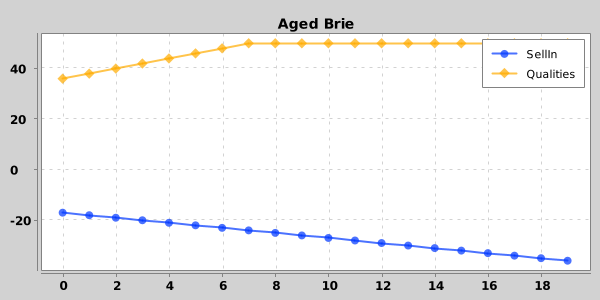
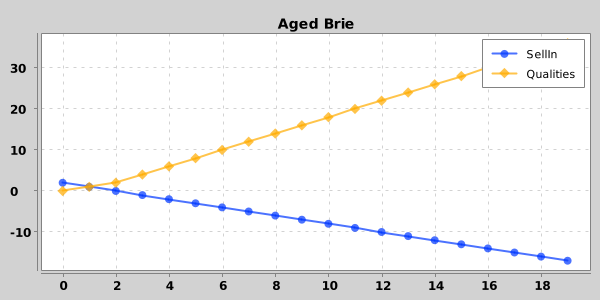
Update GildedRose test to create a new Inn for each item
(cherry picked from commit 9086e2c36711f095f6f7f98d069f508822e02165)

diff --git a/docs/demo_gildedrose/index.html b/docs/demo_gildedrose/index.html
@@ -918,49 +918,49 @@ ol > li p, ul > li p, ul dd, ol dd, .olist .olist, .ulist .olist, .olist .ulist 
 </tr>
 <tr>
 <td class="tableblock halign-left valign-top"><p class="tableblock">sellIn</p></td>
+<td class="tableblock halign-left valign-top"><p class="tableblock">2</p></td>
+<td class="tableblock halign-left valign-top"><p class="tableblock">1</p></td>
+<td class="tableblock halign-left valign-top"><p class="tableblock">0</p></td>
+<td class="tableblock halign-left valign-top"><p class="tableblock">-1</p></td>
+<td class="tableblock halign-left valign-top"><p class="tableblock">-2</p></td>
+<td class="tableblock halign-left valign-top"><p class="tableblock">-3</p></td>
+<td class="tableblock halign-left valign-top"><p class="tableblock">-4</p></td>
+<td class="tableblock halign-left valign-top"><p class="tableblock">-5</p></td>
+<td class="tableblock halign-left valign-top"><p class="tableblock">-6</p></td>
+<td class="tableblock halign-left valign-top"><p class="tableblock">-7</p></td>
+<td class="tableblock halign-left valign-top"><p class="tableblock">-8</p></td>
+<td class="tableblock halign-left valign-top"><p class="tableblock">-9</p></td>
+<td class="tableblock halign-left valign-top"><p class="tableblock">-10</p></td>
+<td class="tableblock halign-left valign-top"><p class="tableblock">-11</p></td>
+<td class="tableblock halign-left valign-top"><p class="tableblock">-12</p></td>
+<td class="tableblock halign-left valign-top"><p class="tableblock">-13</p></td>
+<td class="tableblock halign-left valign-top"><p class="tableblock">-14</p></td>
+<td class="tableblock halign-left valign-top"><p class="tableblock">-15</p></td>
+<td class="tableblock halign-left valign-top"><p class="tableblock">-16</p></td>
 <td class="tableblock halign-left valign-top"><p class="tableblock">-17</p></td>
-<td class="tableblock halign-left valign-top"><p class="tableblock">-18</p></td>
-<td class="tableblock halign-left valign-top"><p class="tableblock">-19</p></td>
-<td class="tableblock halign-left valign-top"><p class="tableblock">-20</p></td>
-<td class="tableblock halign-left valign-top"><p class="tableblock">-21</p></td>
-<td class="tableblock halign-left valign-top"><p class="tableblock">-22</p></td>
-<td class="tableblock halign-left valign-top"><p class="tableblock">-23</p></td>
-<td class="tableblock halign-left valign-top"><p class="tableblock">-24</p></td>
-<td class="tableblock halign-left valign-top"><p class="tableblock">-25</p></td>
-<td class="tableblock halign-left valign-top"><p class="tableblock">-26</p></td>
-<td class="tableblock halign-left valign-top"><p class="tableblock">-27</p></td>
-<td class="tableblock halign-left valign-top"><p class="tableblock">-28</p></td>
-<td class="tableblock halign-left valign-top"><p class="tableblock">-29</p></td>
-<td class="tableblock halign-left valign-top"><p class="tableblock">-30</p></td>
-<td class="tableblock halign-left valign-top"><p class="tableblock">-31</p></td>
-<td class="tableblock halign-left valign-top"><p class="tableblock">-32</p></td>
-<td class="tableblock halign-left valign-top"><p class="tableblock">-33</p></td>
-<td class="tableblock halign-left valign-top"><p class="tableblock">-34</p></td>
-<td class="tableblock halign-left valign-top"><p class="tableblock">-35</p></td>
-<td class="tableblock halign-left valign-top"><p class="tableblock">-36</p></td>
 </tr>
 <tr>
 <td class="tableblock halign-left valign-top"><p class="tableblock">qualities</p></td>
+<td class="tableblock halign-left valign-top"><p class="tableblock">0</p></td>
+<td class="tableblock halign-left valign-top"><p class="tableblock">1</p></td>
+<td class="tableblock halign-left valign-top"><p class="tableblock">2</p></td>
+<td class="tableblock halign-left valign-top"><p class="tableblock">4</p></td>
+<td class="tableblock halign-left valign-top"><p class="tableblock">6</p></td>
+<td class="tableblock halign-left valign-top"><p class="tableblock">8</p></td>
+<td class="tableblock halign-left valign-top"><p class="tableblock">10</p></td>
+<td class="tableblock halign-left valign-top"><p class="tableblock">12</p></td>
+<td class="tableblock halign-left valign-top"><p class="tableblock">14</p></td>
+<td class="tableblock halign-left valign-top"><p class="tableblock">16</p></td>
+<td class="tableblock halign-left valign-top"><p class="tableblock">18</p></td>
+<td class="tableblock halign-left valign-top"><p class="tableblock">20</p></td>
+<td class="tableblock halign-left valign-top"><p class="tableblock">22</p></td>
+<td class="tableblock halign-left valign-top"><p class="tableblock">24</p></td>
+<td class="tableblock halign-left valign-top"><p class="tableblock">26</p></td>
+<td class="tableblock halign-left valign-top"><p class="tableblock">28</p></td>
+<td class="tableblock halign-left valign-top"><p class="tableblock">30</p></td>
+<td class="tableblock halign-left valign-top"><p class="tableblock">32</p></td>
+<td class="tableblock halign-left valign-top"><p class="tableblock">34</p></td>
 <td class="tableblock halign-left valign-top"><p class="tableblock">36</p></td>
-<td class="tableblock halign-left valign-top"><p class="tableblock">38</p></td>
-<td class="tableblock halign-left valign-top"><p class="tableblock">40</p></td>
-<td class="tableblock halign-left valign-top"><p class="tableblock">42</p></td>
-<td class="tableblock halign-left valign-top"><p class="tableblock">44</p></td>
-<td class="tableblock halign-left valign-top"><p class="tableblock">46</p></td>
-<td class="tableblock halign-left valign-top"><p class="tableblock">48</p></td>
-<td class="tableblock halign-left valign-top"><p class="tableblock">50</p></td>
-<td class="tableblock halign-left valign-top"><p class="tableblock">50</p></td>
-<td class="tableblock halign-left valign-top"><p class="tableblock">50</p></td>
-<td class="tableblock halign-left valign-top"><p class="tableblock">50</p></td>
-<td class="tableblock halign-left valign-top"><p class="tableblock">50</p></td>
-<td class="tableblock halign-left valign-top"><p class="tableblock">50</p></td>
-<td class="tableblock halign-left valign-top"><p class="tableblock">50</p></td>
-<td class="tableblock halign-left valign-top"><p class="tableblock">50</p></td>
-<td class="tableblock halign-left valign-top"><p class="tableblock">50</p></td>
-<td class="tableblock halign-left valign-top"><p class="tableblock">50</p></td>
-<td class="tableblock halign-left valign-top"><p class="tableblock">50</p></td>
-<td class="tableblock halign-left valign-top"><p class="tableblock">50</p></td>
-<td class="tableblock halign-left valign-top"><p class="tableblock">50</p></td>
 </tr>
 </tbody>
 </table>
@@ -1022,35 +1022,35 @@ ol > li p, ul > li p, ul dd, ol dd, .olist .olist, .ulist .olist, .olist .ulist 
 </tr>
 <tr>
 <td class="tableblock halign-left valign-top"><p class="tableblock">sellIn</p></td>
-<td class="tableblock halign-left valign-top"><p class="tableblock">-33</p></td>
-<td class="tableblock halign-left valign-top"><p class="tableblock">-34</p></td>
-<td class="tableblock halign-left valign-top"><p class="tableblock">-35</p></td>
-<td class="tableblock halign-left valign-top"><p class="tableblock">-36</p></td>
-<td class="tableblock halign-left valign-top"><p class="tableblock">-37</p></td>
-<td class="tableblock halign-left valign-top"><p class="tableblock">-38</p></td>
-<td class="tableblock halign-left valign-top"><p class="tableblock">-39</p></td>
-<td class="tableblock halign-left valign-top"><p class="tableblock">-40</p></td>
-<td class="tableblock halign-left valign-top"><p class="tableblock">-41</p></td>
-<td class="tableblock halign-left valign-top"><p class="tableblock">-42</p></td>
-<td class="tableblock halign-left valign-top"><p class="tableblock">-43</p></td>
-<td class="tableblock halign-left valign-top"><p class="tableblock">-44</p></td>
-<td class="tableblock halign-left valign-top"><p class="tableblock">-45</p></td>
-<td class="tableblock halign-left valign-top"><p class="tableblock">-46</p></td>
-<td class="tableblock halign-left valign-top"><p class="tableblock">-47</p></td>
-<td class="tableblock halign-left valign-top"><p class="tableblock">-48</p></td>
-<td class="tableblock halign-left valign-top"><p class="tableblock">-49</p></td>
-<td class="tableblock halign-left valign-top"><p class="tableblock">-50</p></td>
-<td class="tableblock halign-left valign-top"><p class="tableblock">-51</p></td>
-<td class="tableblock halign-left valign-top"><p class="tableblock">-52</p></td>
+<td class="tableblock halign-left valign-top"><p class="tableblock">5</p></td>
+<td class="tableblock halign-left valign-top"><p class="tableblock">4</p></td>
+<td class="tableblock halign-left valign-top"><p class="tableblock">3</p></td>
+<td class="tableblock halign-left valign-top"><p class="tableblock">2</p></td>
+<td class="tableblock halign-left valign-top"><p class="tableblock">1</p></td>
+<td class="tableblock halign-left valign-top"><p class="tableblock">0</p></td>
+<td class="tableblock halign-left valign-top"><p class="tableblock">-1</p></td>
+<td class="tableblock halign-left valign-top"><p class="tableblock">-2</p></td>
+<td class="tableblock halign-left valign-top"><p class="tableblock">-3</p></td>
+<td class="tableblock halign-left valign-top"><p class="tableblock">-4</p></td>
+<td class="tableblock halign-left valign-top"><p class="tableblock">-5</p></td>
+<td class="tableblock halign-left valign-top"><p class="tableblock">-6</p></td>
+<td class="tableblock halign-left valign-top"><p class="tableblock">-7</p></td>
+<td class="tableblock halign-left valign-top"><p class="tableblock">-8</p></td>
+<td class="tableblock halign-left valign-top"><p class="tableblock">-9</p></td>
+<td class="tableblock halign-left valign-top"><p class="tableblock">-10</p></td>
+<td class="tableblock halign-left valign-top"><p class="tableblock">-11</p></td>
+<td class="tableblock halign-left valign-top"><p class="tableblock">-12</p></td>
+<td class="tableblock halign-left valign-top"><p class="tableblock">-13</p></td>
+<td class="tableblock halign-left valign-top"><p class="tableblock">-14</p></td>
 </tr>
 <tr>
 <td class="tableblock halign-left valign-top"><p class="tableblock">qualities</p></td>
-<td class="tableblock halign-left valign-top"><p class="tableblock">0</p></td>
-<td class="tableblock halign-left valign-top"><p class="tableblock">0</p></td>
-<td class="tableblock halign-left valign-top"><p class="tableblock">0</p></td>
-<td class="tableblock halign-left valign-top"><p class="tableblock">0</p></td>
-<td class="tableblock halign-left valign-top"><p class="tableblock">0</p></td>
-<td class="tableblock halign-left valign-top"><p class="tableblock">0</p></td>
+<td class="tableblock halign-left valign-top"><p class="tableblock">7</p></td>
+<td class="tableblock halign-left valign-top"><p class="tableblock">6</p></td>
+<td class="tableblock halign-left valign-top"><p class="tableblock">5</p></td>
+<td class="tableblock halign-left valign-top"><p class="tableblock">4</p></td>
+<td class="tableblock halign-left valign-top"><p class="tableblock">3</p></td>
+<td class="tableblock halign-left valign-top"><p class="tableblock">2</p></td>
 <td class="tableblock halign-left valign-top"><p class="tableblock">0</p></td>
 <td class="tableblock halign-left valign-top"><p class="tableblock">0</p></td>
 <td class="tableblock halign-left valign-top"><p class="tableblock">0</p></td>
@@ -1230,45 +1230,45 @@ ol > li p, ul > li p, ul dd, ol dd, .olist .olist, .ulist .olist, .olist .ulist 
 </tr>
 <tr>
 <td class="tableblock halign-left valign-top"><p class="tableblock">sellIn</p></td>
-<td class="tableblock halign-left valign-top"><p class="tableblock">-61</p></td>
-<td class="tableblock halign-left valign-top"><p class="tableblock">-62</p></td>
-<td class="tableblock halign-left valign-top"><p class="tableblock">-63</p></td>
-<td class="tableblock halign-left valign-top"><p class="tableblock">-64</p></td>
-<td class="tableblock halign-left valign-top"><p class="tableblock">-65</p></td>
-<td class="tableblock halign-left valign-top"><p class="tableblock">-66</p></td>
-<td class="tableblock halign-left valign-top"><p class="tableblock">-67</p></td>
-<td class="tableblock halign-left valign-top"><p class="tableblock">-68</p></td>
-<td class="tableblock halign-left valign-top"><p class="tableblock">-69</p></td>
-<td class="tableblock halign-left valign-top"><p class="tableblock">-70</p></td>
-<td class="tableblock halign-left valign-top"><p class="tableblock">-71</p></td>
-<td class="tableblock halign-left valign-top"><p class="tableblock">-72</p></td>
-<td class="tableblock halign-left valign-top"><p class="tableblock">-73</p></td>
-<td class="tableblock halign-left valign-top"><p class="tableblock">-74</p></td>
-<td class="tableblock halign-left valign-top"><p class="tableblock">-75</p></td>
-<td class="tableblock halign-left valign-top"><p class="tableblock">-76</p></td>
-<td class="tableblock halign-left valign-top"><p class="tableblock">-77</p></td>
-<td class="tableblock halign-left valign-top"><p class="tableblock">-78</p></td>
-<td class="tableblock halign-left valign-top"><p class="tableblock">-79</p></td>
-<td class="tableblock halign-left valign-top"><p class="tableblock">-80</p></td>
+<td class="tableblock halign-left valign-top"><p class="tableblock">15</p></td>
+<td class="tableblock halign-left valign-top"><p class="tableblock">14</p></td>
+<td class="tableblock halign-left valign-top"><p class="tableblock">13</p></td>
+<td class="tableblock halign-left valign-top"><p class="tableblock">12</p></td>
+<td class="tableblock halign-left valign-top"><p class="tableblock">11</p></td>
+<td class="tableblock halign-left valign-top"><p class="tableblock">10</p></td>
+<td class="tableblock halign-left valign-top"><p class="tableblock">9</p></td>
+<td class="tableblock halign-left valign-top"><p class="tableblock">8</p></td>
+<td class="tableblock halign-left valign-top"><p class="tableblock">7</p></td>
+<td class="tableblock halign-left valign-top"><p class="tableblock">6</p></td>
+<td class="tableblock halign-left valign-top"><p class="tableblock">5</p></td>
+<td class="tableblock halign-left valign-top"><p class="tableblock">4</p></td>
+<td class="tableblock halign-left valign-top"><p class="tableblock">3</p></td>
+<td class="tableblock halign-left valign-top"><p class="tableblock">2</p></td>
+<td class="tableblock halign-left valign-top"><p class="tableblock">1</p></td>
+<td class="tableblock halign-left valign-top"><p class="tableblock">0</p></td>
+<td class="tableblock halign-left valign-top"><p class="tableblock">-1</p></td>
+<td class="tableblock halign-left valign-top"><p class="tableblock">-2</p></td>
+<td class="tableblock halign-left valign-top"><p class="tableblock">-3</p></td>
+<td class="tableblock halign-left valign-top"><p class="tableblock">-4</p></td>
 </tr>
 <tr>
 <td class="tableblock halign-left valign-top"><p class="tableblock">qualities</p></td>
-<td class="tableblock halign-left valign-top"><p class="tableblock">0</p></td>
-<td class="tableblock halign-left valign-top"><p class="tableblock">0</p></td>
-<td class="tableblock halign-left valign-top"><p class="tableblock">0</p></td>
-<td class="tableblock halign-left valign-top"><p class="tableblock">0</p></td>
-<td class="tableblock halign-left valign-top"><p class="tableblock">0</p></td>
-<td class="tableblock halign-left valign-top"><p class="tableblock">0</p></td>
-<td class="tableblock halign-left valign-top"><p class="tableblock">0</p></td>
-<td class="tableblock halign-left valign-top"><p class="tableblock">0</p></td>
-<td class="tableblock halign-left valign-top"><p class="tableblock">0</p></td>
-<td class="tableblock halign-left valign-top"><p class="tableblock">0</p></td>
-<td class="tableblock halign-left valign-top"><p class="tableblock">0</p></td>
-<td class="tableblock halign-left valign-top"><p class="tableblock">0</p></td>
-<td class="tableblock halign-left valign-top"><p class="tableblock">0</p></td>
-<td class="tableblock halign-left valign-top"><p class="tableblock">0</p></td>
-<td class="tableblock halign-left valign-top"><p class="tableblock">0</p></td>
-<td class="tableblock halign-left valign-top"><p class="tableblock">0</p></td>
+<td class="tableblock halign-left valign-top"><p class="tableblock">20</p></td>
+<td class="tableblock halign-left valign-top"><p class="tableblock">21</p></td>
+<td class="tableblock halign-left valign-top"><p class="tableblock">22</p></td>
+<td class="tableblock halign-left valign-top"><p class="tableblock">23</p></td>
+<td class="tableblock halign-left valign-top"><p class="tableblock">24</p></td>
+<td class="tableblock halign-left valign-top"><p class="tableblock">25</p></td>
+<td class="tableblock halign-left valign-top"><p class="tableblock">27</p></td>
+<td class="tableblock halign-left valign-top"><p class="tableblock">29</p></td>
+<td class="tableblock halign-left valign-top"><p class="tableblock">31</p></td>
+<td class="tableblock halign-left valign-top"><p class="tableblock">33</p></td>
+<td class="tableblock halign-left valign-top"><p class="tableblock">35</p></td>
+<td class="tableblock halign-left valign-top"><p class="tableblock">38</p></td>
+<td class="tableblock halign-left valign-top"><p class="tableblock">41</p></td>
+<td class="tableblock halign-left valign-top"><p class="tableblock">44</p></td>
+<td class="tableblock halign-left valign-top"><p class="tableblock">47</p></td>
+<td class="tableblock halign-left valign-top"><p class="tableblock">50</p></td>
 <td class="tableblock halign-left valign-top"><p class="tableblock">0</p></td>
 <td class="tableblock halign-left valign-top"><p class="tableblock">0</p></td>
 <td class="tableblock halign-left valign-top"><p class="tableblock">0</p></td>
@@ -1334,34 +1334,34 @@ ol > li p, ul > li p, ul dd, ol dd, .olist .olist, .ulist .olist, .olist .ulist 
 </tr>
 <tr>
 <td class="tableblock halign-left valign-top"><p class="tableblock">sellIn</p></td>
-<td class="tableblock halign-left valign-top"><p class="tableblock">-92</p></td>
-<td class="tableblock halign-left valign-top"><p class="tableblock">-93</p></td>
-<td class="tableblock halign-left valign-top"><p class="tableblock">-94</p></td>
-<td class="tableblock halign-left valign-top"><p class="tableblock">-95</p></td>
-<td class="tableblock halign-left valign-top"><p class="tableblock">-96</p></td>
-<td class="tableblock halign-left valign-top"><p class="tableblock">-97</p></td>
-<td class="tableblock halign-left valign-top"><p class="tableblock">-98</p></td>
-<td class="tableblock halign-left valign-top"><p class="tableblock">-99</p></td>
-<td class="tableblock halign-left valign-top"><p class="tableblock">-100</p></td>
-<td class="tableblock halign-left valign-top"><p class="tableblock">-101</p></td>
-<td class="tableblock halign-left valign-top"><p class="tableblock">-102</p></td>
-<td class="tableblock halign-left valign-top"><p class="tableblock">-103</p></td>
-<td class="tableblock halign-left valign-top"><p class="tableblock">-104</p></td>
-<td class="tableblock halign-left valign-top"><p class="tableblock">-105</p></td>
-<td class="tableblock halign-left valign-top"><p class="tableblock">-106</p></td>
-<td class="tableblock halign-left valign-top"><p class="tableblock">-107</p></td>
-<td class="tableblock halign-left valign-top"><p class="tableblock">-108</p></td>
-<td class="tableblock halign-left valign-top"><p class="tableblock">-109</p></td>
-<td class="tableblock halign-left valign-top"><p class="tableblock">-110</p></td>
-<td class="tableblock halign-left valign-top"><p class="tableblock">-111</p></td>
+<td class="tableblock halign-left valign-top"><p class="tableblock">3</p></td>
+<td class="tableblock halign-left valign-top"><p class="tableblock">2</p></td>
+<td class="tableblock halign-left valign-top"><p class="tableblock">1</p></td>
+<td class="tableblock halign-left valign-top"><p class="tableblock">0</p></td>
+<td class="tableblock halign-left valign-top"><p class="tableblock">-1</p></td>
+<td class="tableblock halign-left valign-top"><p class="tableblock">-2</p></td>
+<td class="tableblock halign-left valign-top"><p class="tableblock">-3</p></td>
+<td class="tableblock halign-left valign-top"><p class="tableblock">-4</p></td>
+<td class="tableblock halign-left valign-top"><p class="tableblock">-5</p></td>
+<td class="tableblock halign-left valign-top"><p class="tableblock">-6</p></td>
+<td class="tableblock halign-left valign-top"><p class="tableblock">-7</p></td>
+<td class="tableblock halign-left valign-top"><p class="tableblock">-8</p></td>
+<td class="tableblock halign-left valign-top"><p class="tableblock">-9</p></td>
+<td class="tableblock halign-left valign-top"><p class="tableblock">-10</p></td>
+<td class="tableblock halign-left valign-top"><p class="tableblock">-11</p></td>
+<td class="tableblock halign-left valign-top"><p class="tableblock">-12</p></td>
+<td class="tableblock halign-left valign-top"><p class="tableblock">-13</p></td>
+<td class="tableblock halign-left valign-top"><p class="tableblock">-14</p></td>
+<td class="tableblock halign-left valign-top"><p class="tableblock">-15</p></td>
+<td class="tableblock halign-left valign-top"><p class="tableblock">-16</p></td>
 </tr>
 <tr>
 <td class="tableblock halign-left valign-top"><p class="tableblock">qualities</p></td>
-<td class="tableblock halign-left valign-top"><p class="tableblock">0</p></td>
-<td class="tableblock halign-left valign-top"><p class="tableblock">0</p></td>
-<td class="tableblock halign-left valign-top"><p class="tableblock">0</p></td>
-<td class="tableblock halign-left valign-top"><p class="tableblock">0</p></td>
-<td class="tableblock halign-left valign-top"><p class="tableblock">0</p></td>
+<td class="tableblock halign-left valign-top"><p class="tableblock">6</p></td>
+<td class="tableblock halign-left valign-top"><p class="tableblock">5</p></td>
+<td class="tableblock halign-left valign-top"><p class="tableblock">4</p></td>
+<td class="tableblock halign-left valign-top"><p class="tableblock">3</p></td>
+<td class="tableblock halign-left valign-top"><p class="tableblock">1</p></td>
 <td class="tableblock halign-left valign-top"><p class="tableblock">0</p></td>
 <td class="tableblock halign-left valign-top"><p class="tableblock">0</p></td>
 <td class="tableblock halign-left valign-top"><p class="tableblock">0</p></td>

diff --git a/demo_gildedrose/src/test/java/fr/xebia/katas/gildedrose/InnTest.java b/demo_gildedrose/src/test/java/fr/xebia/katas/gildedrose/InnTest.java
@@ -18,16 +18,17 @@ import java.util.stream.IntStream;
  */
 public class InnTest extends ApprovalsBase {
 
-    private Inn inn = new Inn();
 
     @Test
     public void example_of_evolution_by_item() throws Exception {
-        for (int i = 0; i < inn.getItems().size(); i++) {
-            check_item_update_line(i);
+        for (int i = 0; i < new Inn().getItems().size(); i++) {
+            Inn inn = new Inn();
+
+            check_item_update_line(inn, i);
         }
     }
 
-    private void check_item_update(int index) throws IOException {
+    private void check_item_update(Inn inn, int index) throws IOException {
         final Item initialItem = inn.getItems().get(index);
         final String name = initialItem.getName();
 
@@ -95,27 +96,22 @@ public class InnTest extends ApprovalsBase {
         new SwingWrapper(chart).displayChart();
     }
 
-    private void check_item_update_line(int index) throws IOException {
+    private void check_item_update_line(Inn inn, int index) throws IOException {
+
         final Item initialItem = inn.getItems().get(index);
         final String name = initialItem.getName();
 
         List<Integer> sellIns = new ArrayList<>();
         List<Integer> qualities = new ArrayList<>();
 
-        sellIns.add(initialItem.getSellIn());
-        qualities.add(initialItem.getQuality());
+        for (int i = 1; i <= 20; i++) {
 
-        for (int i = 1; i < 20; i++) {
-            inn.updateQuality();
-
-            final Item item = inn.getItems().stream()
-                    .filter(__ -> __.getName().equals(name))
-                    .findFirst()
-                    .get();
+            final Item item = getItem(inn, name);
 
             sellIns.add(item.getSellIn());
             qualities.add(item.getQuality());
 
+            inn.updateQuality();
         }
 
         write("\n\n== Item " + name + "\n\n");
@@ -132,6 +128,13 @@ public class InnTest extends ApprovalsBase {
 
         final String imageFile = generateGraph(name, sellIns, qualities);
         write("image::" + imageFile + "[]\n\n");
+    }
+
+    private Item getItem(Inn inn, String name) {
+        return inn.getItems().stream()
+                .filter(__ -> __.getName().equals(name))
+                .findFirst()
+                .get();
     }
 
 }
